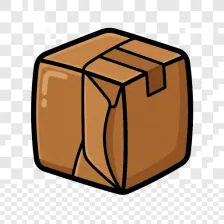
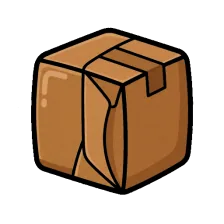
Strip the checkerboard baked into nine glyphs; rebuild the podium as steps
THE GLYPH BACKGROUNDS WERE REAL PIXELS. Nine of the twenty-two answer glyphs
ship a transparency checkerboard baked into the artwork — alternating fully
transparent cells and fully OPAQUE neutral-grey cells, left behind by whatever
exported them. On the answer cards it showed as a grey mottled square behind
the apple and the banana.

It took two passes to remove because the obvious read is wrong: the cells look
semi-transparent, so I first flood-filled on alpha, and the histogram duly
reported the mid-alpha population collapsing. Rendering it showed the
checkerboard completely untouched — the alpha I had removed was only the
antialiasing BETWEEN cells. The cells themselves are opaque, so the fill has to
key on colour: neutral, light, and connected to the frame. Interior greys (the
camera body, the terminal window) are not connected to the frame and survive.

Affected: apple, banana, box, bubble, camera, circle, code, dice, dog.
Cleaned in art-source too, so a future re-encode cannot reintroduce it.

Worth flagging, since I cannot fix it in code: the glyph set is two different
art styles. Eleven are full-colour illustrations, eleven are flat black line
art, and a question can draw from both — which is why Apple and Banana sit
next to an outline Grapes and Orange on the same screen.

THE PODIUM is three cards on three STEPS now, butted into one block, each step
carrying a large numeral. Three cards floating at different offsets above a
[…]

diff --git a/src/screens/Winner.tsx b/src/screens/Winner.tsx
@@ -22,14 +22,56 @@ const SLOTS = [2, 1, 3] as const;
  * numeral clipped. Cards size to their content and win height by padding
  * instead of by a hardcoded bar, which is also just what the reference does.
  */
-const CARD = {
+/**
+ * Each place is a CARD sitting on a STEP, and the three steps butt together
+ * into one block. That is what was missing: three cards floating at different
+ * offsets above a thin bar read as three separate things, and the rank only
+ * appeared as a small medal. The step carries a large numeral and gives the
+ * podium its actual shape.
+ *
+ * Tints follow the medals rather than repeating one grey twice — silver and
+ * bronze are the fastest read on a podium and they were being thrown away.
+ */
+const PLACE = {
   1: {
-    wrap: "flex-[1.18] pt-7 pb-4 bg-brass shadow-plate-brass z-20",
-    name: "text-[15px]",
-    delay: 0.4,
+    card: "bg-brass",
+    band: "bg-brass-deep",
+    step: "bg-brass h-24",
+    stepFace: "bg-brass-deep",
+    grow: "flex-[1.22]",
+    lift: "",
+    avatar: "h-14 w-14 text-[17px]",
+    name: "text-[14px]",
+    medal: "h-11 w-11",
+    numeral: "text-[30px]",
+    delay: 0.42,
   },
-  2: { wrap: "flex-1 mt-7 pt-6 pb-3 bg-paper-deep shadow-plate-ink z-10", name: "text-[12px]", delay: 0.24 },
-  3: { wrap: "flex-1 mt-11 pt-6 pb-3 bg-paper-deep shadow-plate-ink z-10", name: "text-[12px]", delay: 0.1 },
+  2: {
+    card: "bg-[#E6E9F0]",
+    band: "bg-[#B9BEC7]",
+    step: "bg-[#D5D9E0] h-16",
+    stepFace: "bg-[#B9BEC7]",
+    grow: "flex-1",
+    lift: "mt-9",
+    avatar: "h-11 w-11 text-[13px]",
+    name: "text-[12px]",
+    medal: "h-9 w-9",
+    numeral: "text-[24px]",
+    delay: 0.26,
+  },
+  3: {
+    card: "bg-[#F2DEC9]",
+    band: "bg-[#D6B189]",
+    step: "bg-[#E8CFB2] h-11",
+    stepFace: "bg-[#D6B189]",
+    grow: "flex-1",
+    lift: "mt-14",
+    avatar: "h-11 w-11 text-[13px]",
+    name: "text-[12px]",
+    medal: "h-9 w-9",
+    numeral: "text-[24px]",
+    delay: 0.1,
+  },
 } as const;
 
 export function Winner() {
@@ -102,58 +144,95 @@ export function Winner() {
           </motion.div>
         </div>
 
-        <div className="flex items-start justify-center gap-2">
-        {SLOTS.map((rank) => {
-          const entry: LeaderboardEntry | undefined = leaderboard[rank - 1];
-          const c = CARD[rank];
+        <div className="flex items-end justify-center">
+          {SLOTS.map((rank) => {
+            const entry: LeaderboardEntry | undefined = leaderboard[rank - 1];
+            const p = PLACE[rank];
 
-          return (
-            <motion.div
-              key={rank}
-              initial={{ y: 46, opacity: 0 }}
-              animate={{ y: 0, opacity: 1 }}
-              transition={{ type: "spring", stiffness: 250, damping: 20, delay: c.delay }}
-              className={cn(
-                "ink relative flex flex-col items-center gap-1.5 rounded-plate px-2",
-                c.wrap
-              )}
-            >
-              <div
+            return (
+              <motion.div
+                key={rank}
+                initial={{ y: 46, opacity: 0 }}
+                animate={{ y: 0, opacity: 1 }}
+                transition={{ type: "spring", stiffness: 250, damping: 20, delay: p.delay }}
                 className={cn(
-                  "ink flex items-center justify-center rounded-pill bg-white font-display text-ink",
-                  rank === 1 ? "h-14 w-14 text-[17px]" : "h-11 w-11 text-[13px]"
+                  "relative flex flex-col self-end",
+                  p.grow,
+                  rank === 1 ? "z-20" : "z-10",
+                  // The winner overlaps its neighbours by a hair so the block
+                  // reads as one object rather than three columns in a row.
+                  rank === 1 ? "-mx-1" : ""
                 )}
               >
-                {entry?.initials ?? "–"}
-              </div>
+                {/* ---- card ---- */}
+                <div
+                  className={cn(
+                    "ink relative flex flex-col items-center gap-1 overflow-hidden rounded-t-plate px-2 pb-2.5 pt-3",
+                    p.card,
+                    p.lift
+                  )}
+                >
+                  {/* A light zone across the top and a dark band at the foot.
+                      Same construction as the Safe: a flat fill reads as a
+                      rectangle, discrete light and dark zones read as an
+                      object. */}
+                  <span
+                    aria-hidden
+                    className="pointer-events-none absolute inset-x-0 top-0 h-1/3 bg-white/25"
+                  />
 
-              <span className={cn("w-full truncate font-display uppercase leading-tight text-ink", c.name)}>
-                {entry?.name.split(" ")[0] ?? "OPEN"}
-              </span>
+                  <div
+                    className={cn(
+                      "ink relative flex items-center justify-center rounded-pill bg-white font-display text-ink",
+                      p.avatar
+                    )}
+                  >
+                    {entry?.initials ?? "–"}
+                  </div>
 
-              <span className="font-readout text-[12px] font-bold text-ink/45">
-                <span className={rank === 1 ? "text-red" : "text-ink/70"}>{entry?.digits ?? 0}</span>
-                {" / 9"}
-              </span>
+                  <span
+                    className={cn(
+                      "relative w-full truncate font-display uppercase leading-tight text-ink",
+                      p.name
+                    )}
+                  >
+                    {entry?.name.split(" ")[0] ?? "OPEN"}
+                  </span>
 
-              {/* The real medal, not a number in a box. Gold, silver and
-                  bronze are the fastest possible read of a podium, and Props
-                  already carries a properly built one — the cards were showing
-                  a flat digit instead, which is most of why they read cheap. */}
-              <span className={cn("mt-1", rank === 1 ? "h-14 w-14" : "h-11 w-11")}>
-                <Medal rank={rank} />
-              </span>
-            </motion.div>
-          );
-        })}
+                  <span className="relative font-readout text-[11px] font-bold text-ink/45">
+                    <span className="text-ink/75">{entry?.digits ?? 0}</span>
+                    {" / 9"}
+                  </span>
+
+                  <span className={cn("relative mt-0.5", p.medal)}>
+                    <Medal rank={rank} />
+                  </span>
+                </div>
+
+                {/* ---- step ---- */}
+                <div className={cn("ink relative flex items-center justify-center border-t-0", p.step)}>
+                  <span
+                    aria-hidden
+                    className={cn("pointer-events-none absolute inset-x-0 bottom-0 h-1/3", p.stepFace)}
+                  />
+                  <span
+                    className={cn(
+                      "relative font-display leading-none text-ink/70",
+                      p.numeral
+                    )}
+                    style={{ textShadow: "0 2px 0 rgba(255,255,255,0.45)" }}
+                  >
+                    {rank}
+                  </span>
+                </div>
+              </motion.div>
+            );
+          })}
         </div>
 
-        {/* A plinth the cards stand on. Without it three cards of different
-            heights just float at different offsets; the base is what makes
-            them read as one podium. */}
-        <motion.div variants={riseIn} className="relative -mt-[3px] px-1">
-          <div className="ink h-4 rounded-b-[14px] rounded-t-[4px] bg-brass-deep shadow-plate-ink" />
-          <div className="ink -mt-[3px] h-3 rounded-b-[12px] bg-ink" />
+        {/* Floor slab the three steps stand on. */}
+        <motion.div variants={riseIn} className="relative -mt-[3px]">
+          <div className="ink h-3.5 rounded-b-[12px] bg-ink" />
         </motion.div>
       </div>
 

diff --git a/src/screens/BonusFound.tsx b/src/screens/BonusFound.tsx
@@ -4,6 +4,7 @@ import { PrimaryButton } from "../components/PrimaryButton";
 import { Pressable } from "../components/Pressable";
 import { ScreenHeader } from "../components/ScreenHeader";
 import { MysteryBox } from "../components/Props";
+import { Starburst } from "../components/Starburst";
 import { screenChoreo, popIn, riseIn } from "../lib/motion";
 
 export function BonusFound() {
@@ -26,14 +27,20 @@ export function BonusFound() {
         animate="animate"
         className="flex flex-1 flex-col"
       >
-        <div className="flex flex-1 flex-col items-center justify-center gap-7 p-6 text-center">
-          {/* 208px plate, p-4, so 176 of interior for a 160px box. */}
-          <motion.div
-            variants={popIn}
-            style={{ rotate: 2.2 }}
-            className="ink flex h-52 w-52 items-center justify-center rounded-plate bg-purple/10 shadow-ink-lg"
-          >
-            <MysteryBox className="h-40 w-40" />
+        <div className="flex flex-1 flex-col items-center justify-center gap-6 p-6 pt-8 text-center">
+          {/* The plate was bg-purple/10 — a pale lavender behind a purple box,
+              so the hero had nothing to sit against. Ink gives the box an
+              actual ground, and the burst behind it carries the celebration. */}
+          <motion.div variants={popIn} className="relative flex items-center justify-center">
+            <div className="spin-layer absolute inset-0 -m-5 animate-[tumble_18s_linear_infinite] opacity-70">
+              <Starburst fillColor="var(--color-purple)" />
+            </div>
+            <div
+              style={{ rotate: "2.2deg" }}
+              className="ink relative flex h-52 w-52 items-center justify-center rounded-plate bg-ink shadow-plate-purple"
+            >
+              <MysteryBox className="h-40 w-40" />
+            </div>
           </motion.div>
 
           <motion.div

diff --git a/src/screens/ChallengeScreen.tsx b/src/screens/ChallengeScreen.tsx
@@ -166,10 +166,13 @@ export function ChallengeScreen() {
             <Art name="mascot-thinking" alt="" className="h-full w-full object-contain" />
           </motion.div>
 
-          <span className="relative z-10 block pr-24 text-[11px] font-bold uppercase tracking-[0.2em] text-red-deep">
+          {/* pr-32, not pr-24. The mascot is 128px wide sitting at -right-3,
+              so it covers the rightmost 116px of the row — a 96px gutter left
+              it clipping the last letter of a long title like SPOT THE MATCH. */}
+          <span className="relative z-10 block pr-32 text-[11px] font-bold uppercase tracking-[0.2em] text-red-deep">
             CHALLENGE PUZZLE
           </span>
-          <h1 className="relative z-10 mt-1 pr-24 text-[28px] font-extrabold uppercase leading-[0.95] tracking-tighter text-ink">
+          <h1 className="relative z-10 mt-1 pr-32 text-[26px] font-extrabold uppercase leading-[0.95] tracking-tighter text-ink">
             {challenge.title}
           </h1>
           <p className="relative z-10 mt-3 rotate-[-1deg] rounded-card bg-white p-4 font-body text-base font-bold leading-relaxed text-ink/75 ink shadow-ink-sm">

diff --git a/src/components/Pressable.tsx b/src/components/Pressable.tsx
@@ -24,9 +24,13 @@ export function Pressable({ icon, children, className, onClick, ...props }: Pres
       className={cn(
         "shadow-[0_6px_0_0_var(--color-ink)] hover:shadow-[0_8px_0_0_var(--color-ink)] active:shadow-none",
         "ink tap select-none flex items-center justify-center cursor-pointer font-bold disabled:opacity-40 disabled:pointer-events-none text-ink bg-paper-deep",
-        icon 
-          ? "rounded-btn p-3 aspect-square" 
-          : "rounded-pill px-5 py-2 text-[14px] uppercase tracking-wider",
+        // rounded-btn, not rounded-pill. The token comment is explicit —
+        // 18px is for buttons and inputs, 999px is for chips, badges and tags
+        // — and every Pressable in the app is a full-width button sitting
+        // directly under a PrimaryButton, where a pill read as a mismatch.
+        icon
+          ? "rounded-btn p-3 aspect-square"
+          : "rounded-btn px-5 py-2 text-[14px] uppercase tracking-wider",
         className
       )}
       {...(props as any)}
